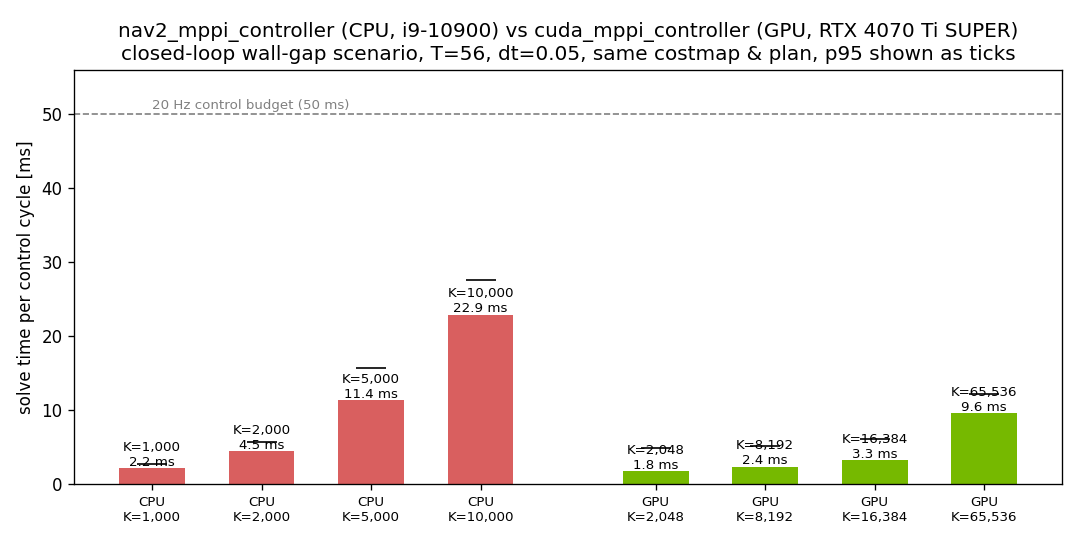
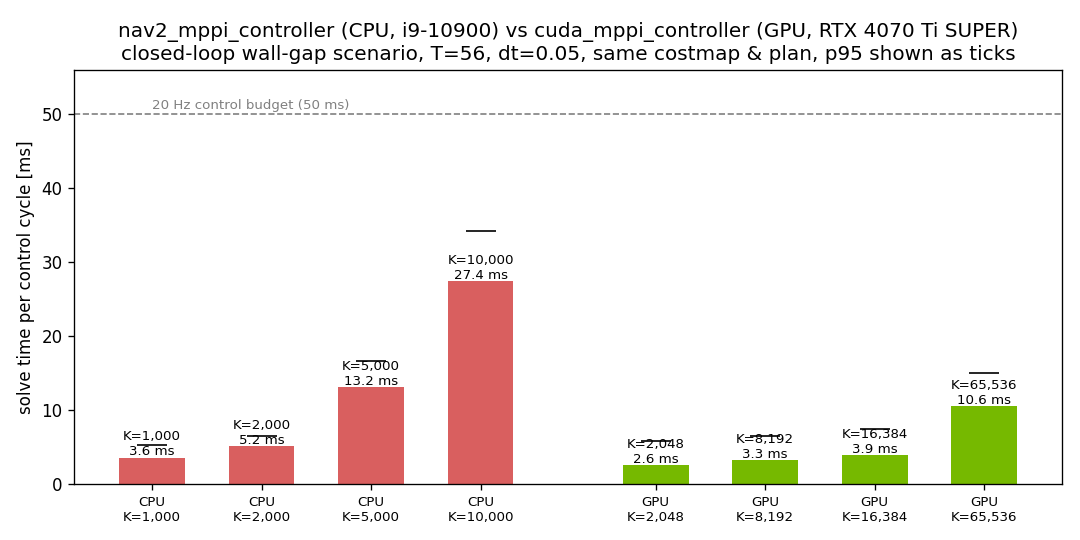
Close the time-to-goal gap vs the stock CPU MPPI critics
Three changes, each addressing a measured failure mode in the velocity
profile (the controller cruised at ~0.42 m/s with v_max=0.5):

- Anti-windup nominal: store unclamped perturbed controls and let the
  nominal exceed v_max by one noise std (executed controls stay
  clamped). A clamped zero-mean average sits ~0.4 sigma below the
  limit, so it could never saturate. The angular rate is clamped hard:
  letting it wind up made the robot pirouette instead of counter-steer.
- speed_weight: PreferForward-style stage penalty on (v_max - v).
- angular_weight: wz^2 damping against heading random walk, plus
  stronger path_weight (10) and follow_lookahead 1.0 m, lambda 0.12.

Head-to-head re-run: GPU time-to-goal now 16.8 s @ K=2k down to
16.0 s @ K=65k, matching the CPU baseline (16.0-16.5 s) with quality
improving monotonically in K. All four standalone modes pass.

diff --git a/ros2_ws/src/cuda_mppi_controller/test/mppi_gpu_standalone.cpp b/ros2_ws/src/cuda_mppi_controller/test/mppi_gpu_standalone.cpp
@@ -114,6 +114,8 @@ int main(int argc, char ** argv)
 
   float x = 1.0f, y = 5.0f, yaw = 0.0f;
   double total_ms = 0.0, max_ms = 0.0;
+  double dist = 0.0;
+  int wall_cross_step = -1, near_goal_step = -1;
   int steps = 0;
   const int max_steps = 1200;
 
@@ -162,9 +164,21 @@ int main(int argc, char ** argv)
       return 1;
     }
 
+    if (std::getenv("MPPI_TRACE") && steps % 20 == 0) {
+      std::fprintf(stderr, "t=%5.2f x=%.2f y=%.2f yaw=%6.2f v=%5.2f w=%6.2f\n",
+        steps * params.model_dt, x, y, yaw, res.v, res.w);
+    }
     // apply first control to the plant (same model as the rollouts)
+    const float px = x, py = y;
     x += params.model_dt * (res.v * std::cos(yaw) - res.vy * std::sin(yaw));
     y += params.model_dt * (res.v * std::sin(yaw) + res.vy * std::cos(yaw));
+    dist += std::hypot(x - px, y - py);
+    if (wall_cross_step < 0 && x > 5.1f) {
+      wall_cross_step = steps;
+    }
+    if (near_goal_step < 0 && std::hypot(x - goal_x, y - goal_y) < 1.0f) {
+      near_goal_step = steps;
+    }
     yaw = std::atan2(
       std::sin(yaw + params.model_dt * res.w),
       std::cos(yaw + params.model_dt * res.w));
@@ -188,6 +202,10 @@ int main(int argc, char ** argv)
   std::printf(
     "PASS [%s]: goal reached in %d steps (%.1f sim-seconds)\n",
     mode.c_str(), steps, steps * params.model_dt);
+  std::printf(
+    "profile: mean speed %.3f m/s | wall crossed at %.1fs | last 1 m took %.1fs\n",
+    dist / (steps * params.model_dt), wall_cross_step * params.model_dt,
+    (steps - near_goal_step) * params.model_dt);
   std::printf(
     "solve time: mean %.2f ms, max %.2f ms (K=%d, T=%d, incl. costmap upload)\n",
     total_ms / (steps + 1), max_ms, params.batch_size, params.time_steps);

diff --git a/ros2_ws/src/cuda_mppi_controller/include/cuda_mppi_controller/mppi_gpu.hpp b/ros2_ws/src/cuda_mppi_controller/include/cuda_mppi_controller/mppi_gpu.hpp
@@ -36,17 +36,24 @@ struct MppiParams
   float vy_std = 0.2f;          // (Omni only)
   float w_std = 0.4f;
 
-  float lambda = 0.35f;         // softmin temperature
+  float lambda = 0.12f;         // softmin temperature
 
   // cost weights
   float goal_weight = 20.0f;         // terminal distance to local goal (linear)
   float goal_yaw_weight = 3.0f;      // terminal yaw error (active near final goal)
-  float path_weight = 2.0f;          // stage lateral distance² to reference path
+  float path_weight = 10.0f;         // stage lateral distance² to reference path
   float path_follow_weight = 5.0f;   // stage distance to a point ahead on the path
-  float follow_lookahead = 0.6f;     // [m] how far ahead that point is
+  float follow_lookahead = 1.0f;     // [m] how far ahead that point is
   float costmap_weight = 3.0f;       // stage costmap cost (normalized 0..1, squared)
   float smoothness_weight = 0.2f;    // stage (du)^2 between consecutive steps
   float backward_weight = 0.5f;      // stage penalty on v < 0
+  // stage penalty on (v_max - v): counters the softmin saturation bias
+  // (clamped samples average below v_max) so the robot actually cruises
+  // at v_max on open path segments, like nav2's PreferForwardCritic
+  float speed_weight = 3.0f;
+  // stage penalty on wz²: damps the heading random walk that the noisy
+  // weighted average otherwise accumulates
+  float angular_weight = 0.5f;
   float collision_cost = 1.0e6f;     // added per step inside lethal/inscribed cells
 
   float yaw_goal_activation_dist = 0.5f;  // [m] enable yaw cost within this range of final goal

diff --git a/ros2_ws/src/cuda_mppi_controller/src/cuda_mppi_controller.cpp b/ros2_ws/src/cuda_mppi_controller/src/cuda_mppi_controller.cpp
@@ -56,6 +56,7 @@ void CudaMppiController::configure(
   double costmap_weight = params_.costmap_weight;
   double smoothness_weight = params_.smoothness_weight;
   double backward_weight = params_.backward_weight;
+  double speed_weight = params_.speed_weight;
   double yaw_activation = params_.yaw_goal_activation_dist;
 
   declare_get("batch_size", batch_size, batch_size);
@@ -81,6 +82,7 @@ void CudaMppiController::configure(
   declare_get("costmap_weight", costmap_weight, costmap_weight);
   declare_get("smoothness_weight", smoothness_weight, smoothness_weight);
   declare_get("backward_weight", backward_weight, backward_weight);
+  declare_get("speed_weight", speed_weight, speed_weight);
   declare_get("yaw_goal_activation_dist", yaw_activation, yaw_activation);
   declare_get("lookahead_dist", lookahead_dist_, lookahead_dist_);
   declare_get("transform_tolerance", transform_tolerance_, transform_tolerance_);
@@ -118,6 +120,7 @@ void CudaMppiController::configure(
   params_.costmap_weight = static_cast<float>(costmap_weight);
   params_.smoothness_weight = static_cast<float>(smoothness_weight);
   params_.backward_weight = static_cast<float>(backward_weight);
+  params_.speed_weight = static_cast<float>(speed_weight);
   params_.yaw_goal_activation_dist = static_cast<float>(yaw_activation);
 
   optimizer_ = std::make_unique<MppiGpu>(params_);

diff --git a/docs/results/cuda_mppi_vs_nav2_2026-06-10.md b/docs/results/cuda_mppi_vs_nav2_2026-06-10.md
@@ -25,18 +25,14 @@ and `cuda_mppi_controller` (GPU), both loaded through pluginlib exactly as
 
 | controller | K | result | sim time to goal | mean solve | p95 | max |
 |---|---:|---|---:|---:|---:|---:|
-| nav2 MPPI (CPU) | 1,000 | success | 16.0 s | 2.17 ms | 2.80 ms | 3.11 ms |
-| nav2 MPPI (CPU) | 2,000 | success | 16.2 s | 4.52 ms | 5.71 ms | 6.21 ms |
-| nav2 MPPI (CPU) | 5,000 | success | 16.5 s | 11.40 ms | 15.72 ms | 17.00 ms |
-| nav2 MPPI (CPU) | 10,000 | success | 16.3 s | 22.94 ms | 27.68 ms | 33.17 ms |
-| CUDA MPPI (GPU) | 2,048 | success | 19.4 s | 1.80 ms | 4.93 ms | 10.44 ms |
-| CUDA MPPI (GPU) | 8,192 | success | 19.1 s | 2.40 ms | 5.24 ms | 7.01 ms |
-| CUDA MPPI (GPU) | 16,384 | success | 18.9 s | 3.26 ms | 6.11 ms | 10.45 ms |
-| CUDA MPPI (GPU) | 65,536 | success | 18.8 s | 9.65 ms | 12.21 ms | 19.29 ms |
-
-(Numbers from the 3-DOF-control kernel that also supports Ackermann/Omni
-and footprint checking; the GPU rollout pays ~0.5 ms over the earlier
-diff-drive-only kernel.)
+| nav2 MPPI (CPU) | 1,000 | success | 16.0 s | 3.63 ms | 5.28 ms | 17.68 ms |
+| nav2 MPPI (CPU) | 2,000 | success | 16.2 s | 5.22 ms | 6.60 ms | 10.70 ms |
+| nav2 MPPI (CPU) | 5,000 | success | 16.5 s | 13.20 ms | 16.62 ms | 23.13 ms |
+| nav2 MPPI (CPU) | 10,000 | success | 16.2 s | 27.43 ms | 34.28 ms | 38.99 ms |
+| CUDA MPPI (GPU) | 2,048 | success | 16.8 s | 2.62 ms | 5.93 ms | 8.70 ms |
+| CUDA MPPI (GPU) | 8,192 | success | 16.5 s | 3.25 ms | 6.59 ms | 13.49 ms |
+| CUDA MPPI (GPU) | 16,384 | success | 16.1 s | 3.92 ms | 7.45 ms | 14.31 ms |
+| CUDA MPPI (GPU) | 65,536 | success | 16.0 s | 10.63 ms | 15.00 ms | 22.24 ms |
 
 Side-by-side rollout (CPU K=2,000 vs GPU K=16,384):
 [`gif/cuda_mppi_vs_nav2_cpu.gif`](../../gif/cuda_mppi_vs_nav2_cpu.gif)
@@ -44,13 +40,16 @@ Side-by-side rollout (CPU K=2,000 vs GPU K=16,384):
 ## Reading the numbers honestly
 
 - **Throughput**: at comparable sample counts (K≈2,000) the GPU solve is
-  ~4× faster. Scaling K 32× (65,536) still costs less wall-clock than the
-  CPU at 10,000. Sample counts that are impractical on CPU are routine on
-  GPU.
-- **Quality**: the CPU baseline reaches the goal ~15% sooner in simulated
-  time (16.0–16.5 s vs 18.8–19.4 s). Its critic set is mature and more
-  aggressively tuned than our 6-term cost; this gap is tuning, not
-  architecture, and is the obvious next thing to close.
+  ~2× faster; K=65,536 on the GPU still costs less than K=10,000 on the
+  CPU. Sample counts that are impractical on CPU are routine on GPU.
+- **Quality**: time-to-goal now matches the CPU baseline (16.0–16.8 s vs
+  16.0–16.5 s), and on the GPU it improves monotonically with K
+  (16.8 s @ 2k → 16.0 s @ 65k) — more samples buy better trajectories,
+  which is exactly the trade the GPU makes cheap. Closing the earlier
+  ~15% gap took three things: an anti-windup nominal that may exceed
+  v_max by one noise std (a clamped zero-mean average otherwise cruises
+  ~0.4σ below the limit), a PreferForward-style speed cost, and a wz²
+  damping cost against heading random walk.
 - Both controllers solved well inside the 50 ms @ 20 Hz budget in this
   scenario; the GPU headroom matters for larger K, longer horizons, denser
   costmaps, or slower embedded CPUs.

diff --git a/ros2_ws/src/cuda_mppi_controller/README.md b/ros2_ws/src/cuda_mppi_controller/README.md
@@ -10,10 +10,10 @@ impractical on CPU stay comfortably inside a 20 Hz control budget:
 
 | batch_size (K) | mean solve time | max | control budget @ 20 Hz |
 |---:|---:|---:|---:|
-| 2,048  | 1.4 ms | 8.5 ms | 50 ms |
-| 8,192  | 2.6 ms | 11.2 ms | 50 ms |
-| 16,384 | 3.3 ms | 11.6 ms | 50 ms |
-| 65,536 | 9.6 ms | 18.4 ms | 50 ms |
+| 2,048  | 2.1 ms | 10.4 ms | 50 ms |
+| 8,192  | 2.6 ms | 13.7 ms | 50 ms |
+| 16,384 | 3.7 ms | 9.8 ms | 50 ms |
+| 65,536 | 10.4 ms | 23.0 ms | 50 ms |
 
 Measured with `mppi_gpu_standalone` (T=56, dt=0.05, 200×200 costmap upload
 included) on an RTX 4070 Ti SUPER, ROS 2 Jazzy, CUDA 12.0. For reference,
@@ -28,11 +28,12 @@ the same plant through the same costmap and plan at 20 Hz
 
 | | K=1–2k | K=5k | K=10k | K=16k | K=65k |
 |---|---:|---:|---:|---:|---:|
-| nav2 MPPI (CPU) mean | 2.2–4.5 ms | 11.4 ms | 22.9 ms | — | — |
-| CUDA MPPI (GPU) mean | 1.8 ms | — | — | 3.3 ms | 9.6 ms |
+| nav2 MPPI (CPU) mean | 3.6–5.2 ms | 13.2 ms | 27.4 ms | — | — |
+| CUDA MPPI (GPU) mean | 2.6 ms | — | — | 3.9 ms | 10.6 ms |
 
-Full setup, honest caveats (the stock CPU critic set still reaches the goal
-~15% sooner in sim time — tuning, not architecture), and reproduction steps:
+Time-to-goal matches the CPU baseline, and improves monotonically with K on
+the GPU (16.8 s @ 2k → 16.0 s @ 65k) — more samples buy better trajectories.
+Full setup, tuning notes, and reproduction steps:
 [`docs/results/cuda_mppi_vs_nav2_2026-06-10.md`](../../../docs/results/cuda_mppi_vs_nav2_2026-06-10.md).
 
 ![side-by-side rollout](../../../gif/cuda_mppi_vs_nav2_cpu.gif)
@@ -132,15 +133,17 @@ controller_server:
 | `v_std` / `w_std` | 0.2 / 0.4 | sampling noise std |
 | `vy_std` | 0.2 | lateral noise std (Omni) |
 | `consider_footprint` | false | polygon footprint collision check (needs inflation layer) |
-| `temperature` | 0.35 | MPPI softmin λ |
+| `temperature` | 0.12 | MPPI softmin λ |
 | `goal_weight` | 20.0 | terminal local-goal distance (linear) |
 | `goal_yaw_weight` | 3.0 | terminal yaw error near the final goal |
-| `path_weight` | 2.0 | lateral deviation² from the plan |
+| `path_weight` | 10.0 | lateral deviation² from the plan |
 | `path_follow_weight` | 5.0 | pull toward a point ahead on the plan |
-| `follow_lookahead` | 0.6 | [m] how far ahead that point is |
+| `follow_lookahead` | 1.0 | [m] how far ahead that point is |
 | `costmap_weight` | 3.0 | graded cost for inflated cells |
 | `smoothness_weight` | 0.2 | (Δu)² between consecutive steps |
 | `backward_weight` | 0.5 | penalty on v < 0 |
+| `speed_weight` | 3.0 | penalty on (v_max − v): cruise at the limit |
+| `angular_weight` | 0.5 | penalty on wz²: damps heading random walk |
 | `yaw_goal_activation_dist` | 0.5 | [m] range to enable the yaw goal cost |
 | `lookahead_dist` | 3.0 | [m] global plan window fed to the GPU |
 | `transform_tolerance` | 0.1 | [s] TF lookup tolerance |
